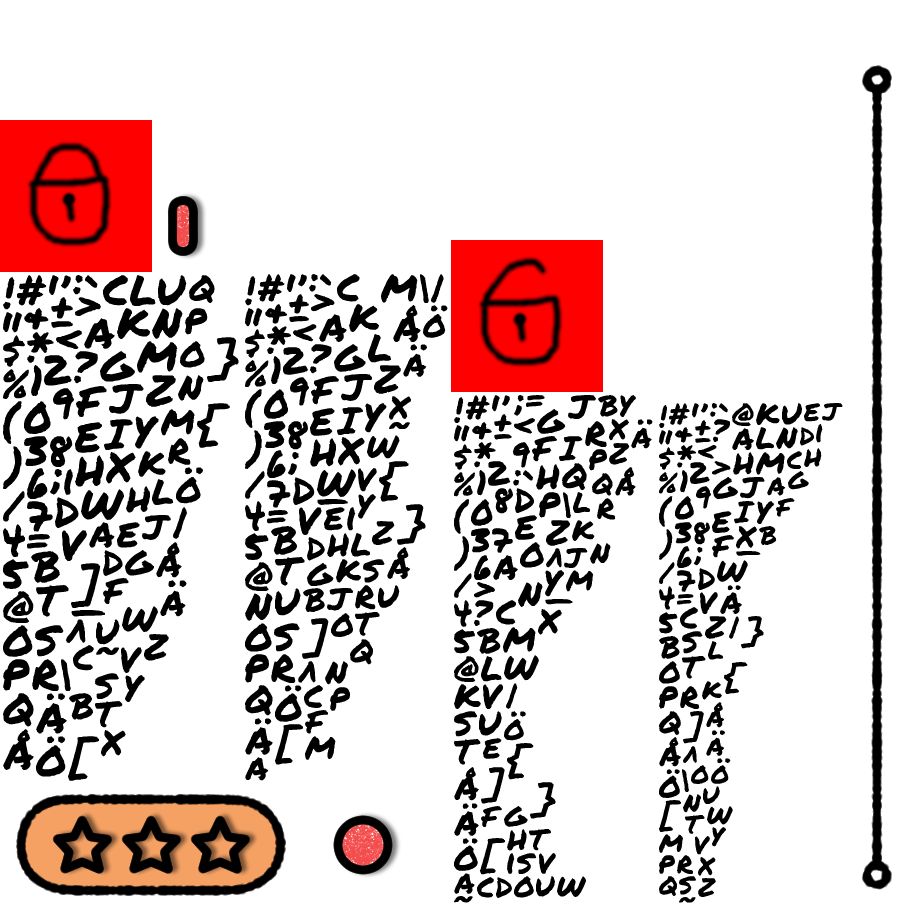
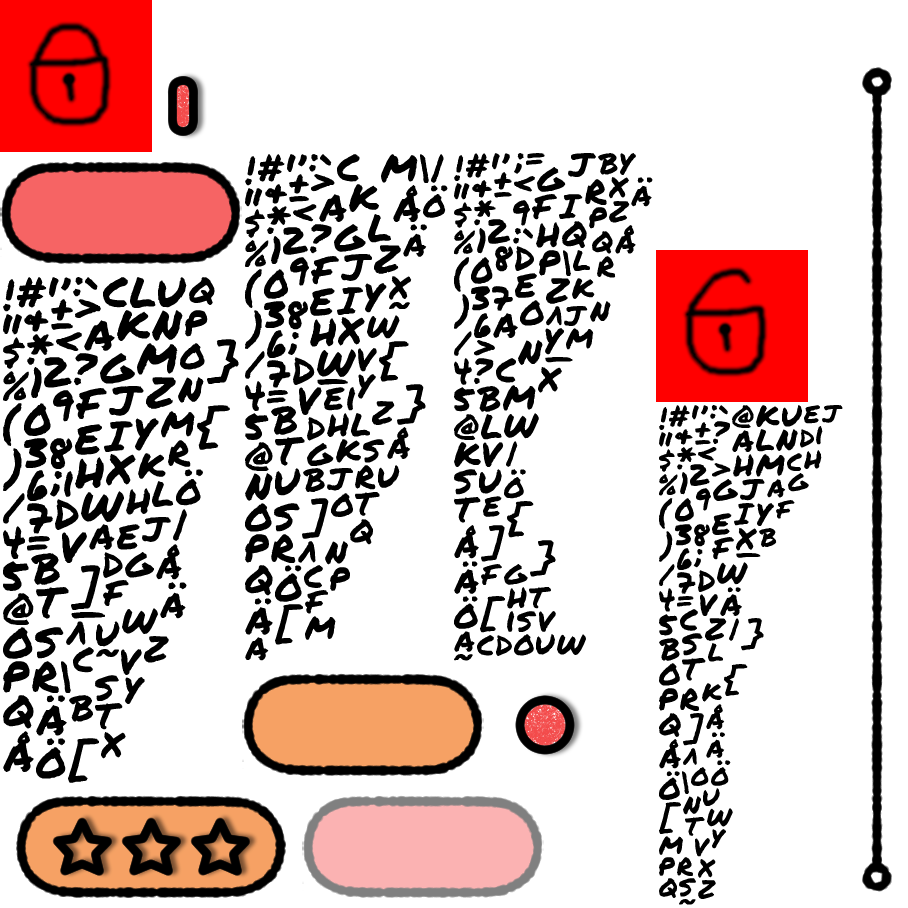
Added new cancel-button, when changing skill.

Changed region(s): [[0.0, 0.0, 0.9251, 1.0], [0.9559, 0.0618, 0.9868, 0.1236]]

diff --git a/core/src/fi/phstudios/robotmayhem/UtilItem.java b/core/src/fi/phstudios/robotmayhem/UtilItem.java
@@ -494,9 +494,8 @@ public class UtilItem {
             });
         }
 
-        TextButton buttonCancel = new TextButton(localize.get("cancel"), finalSkin, "smallest");
-        buttonCancel.setPosition(1185, 180);
-        buttonCancel.setSize(250, 120);
+        TextButton buttonCancel = new TextButton(localize.get("cancel"), finalSkin, "skill_cancel");
+        buttonCancel.setPosition(1190, 180);
         buttonCancel.addListener(new ClickListener() {
             @Override
             public void clicked(InputEvent event, float x, float y) {
